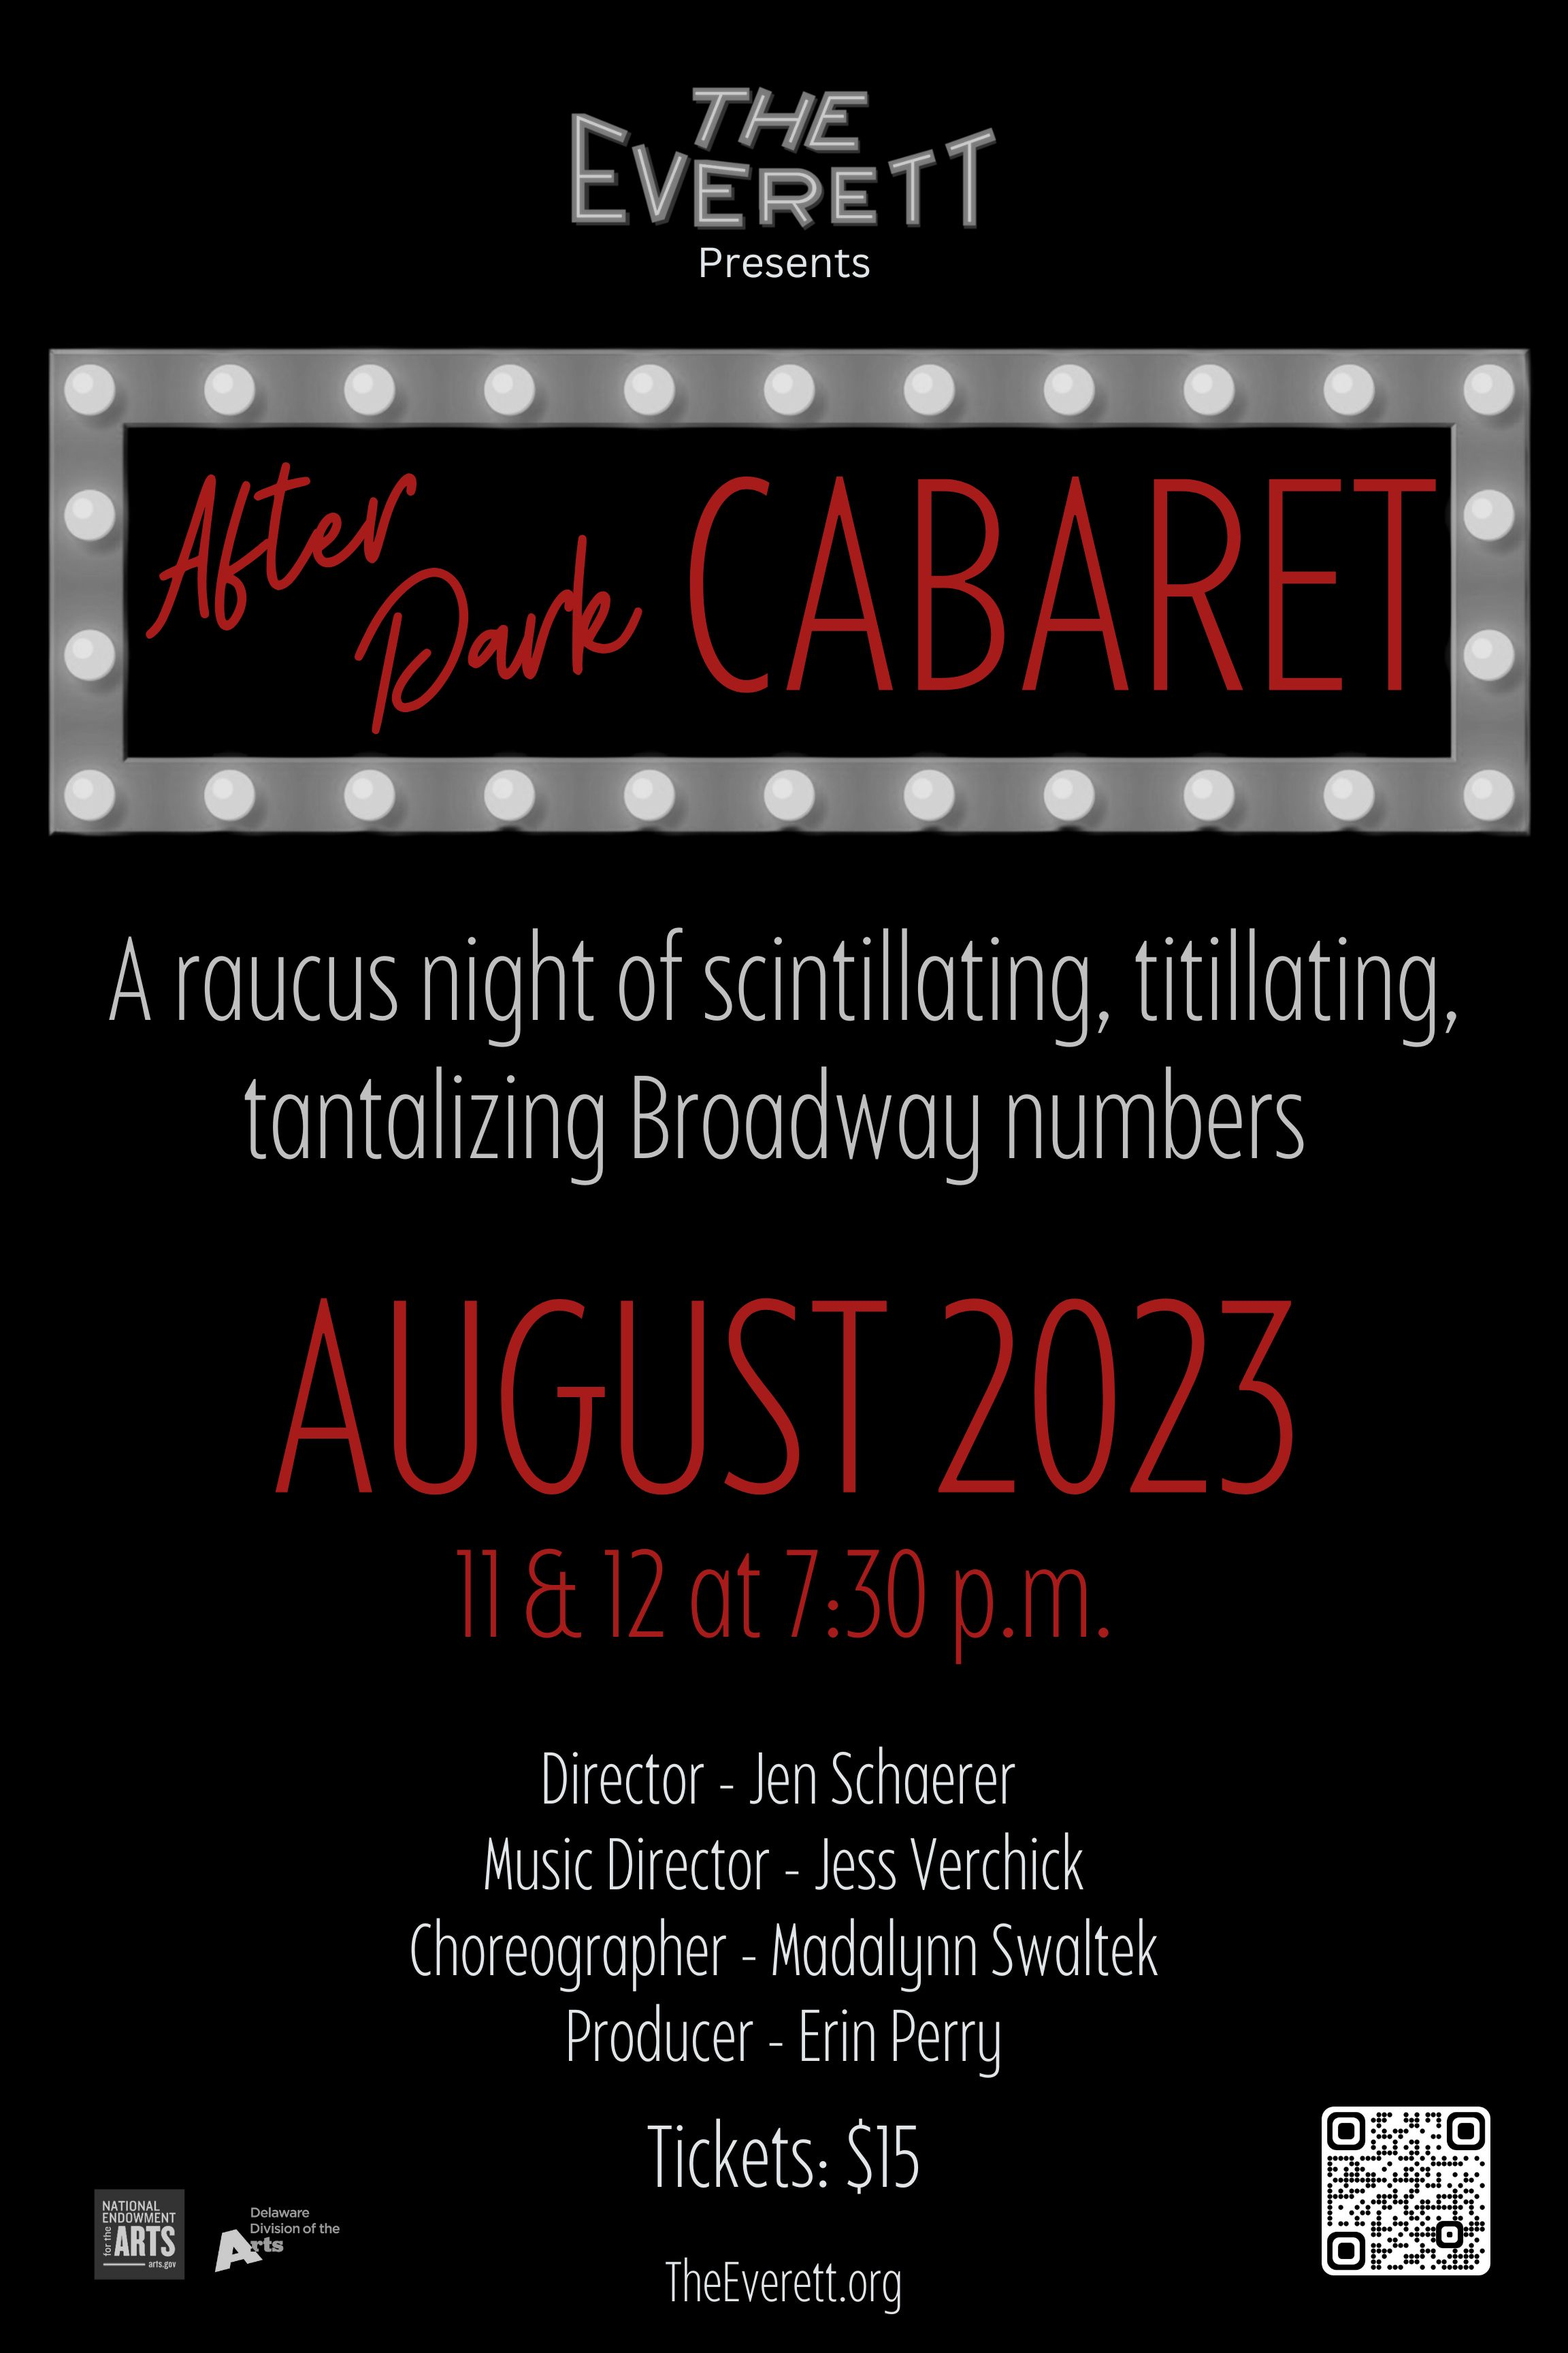
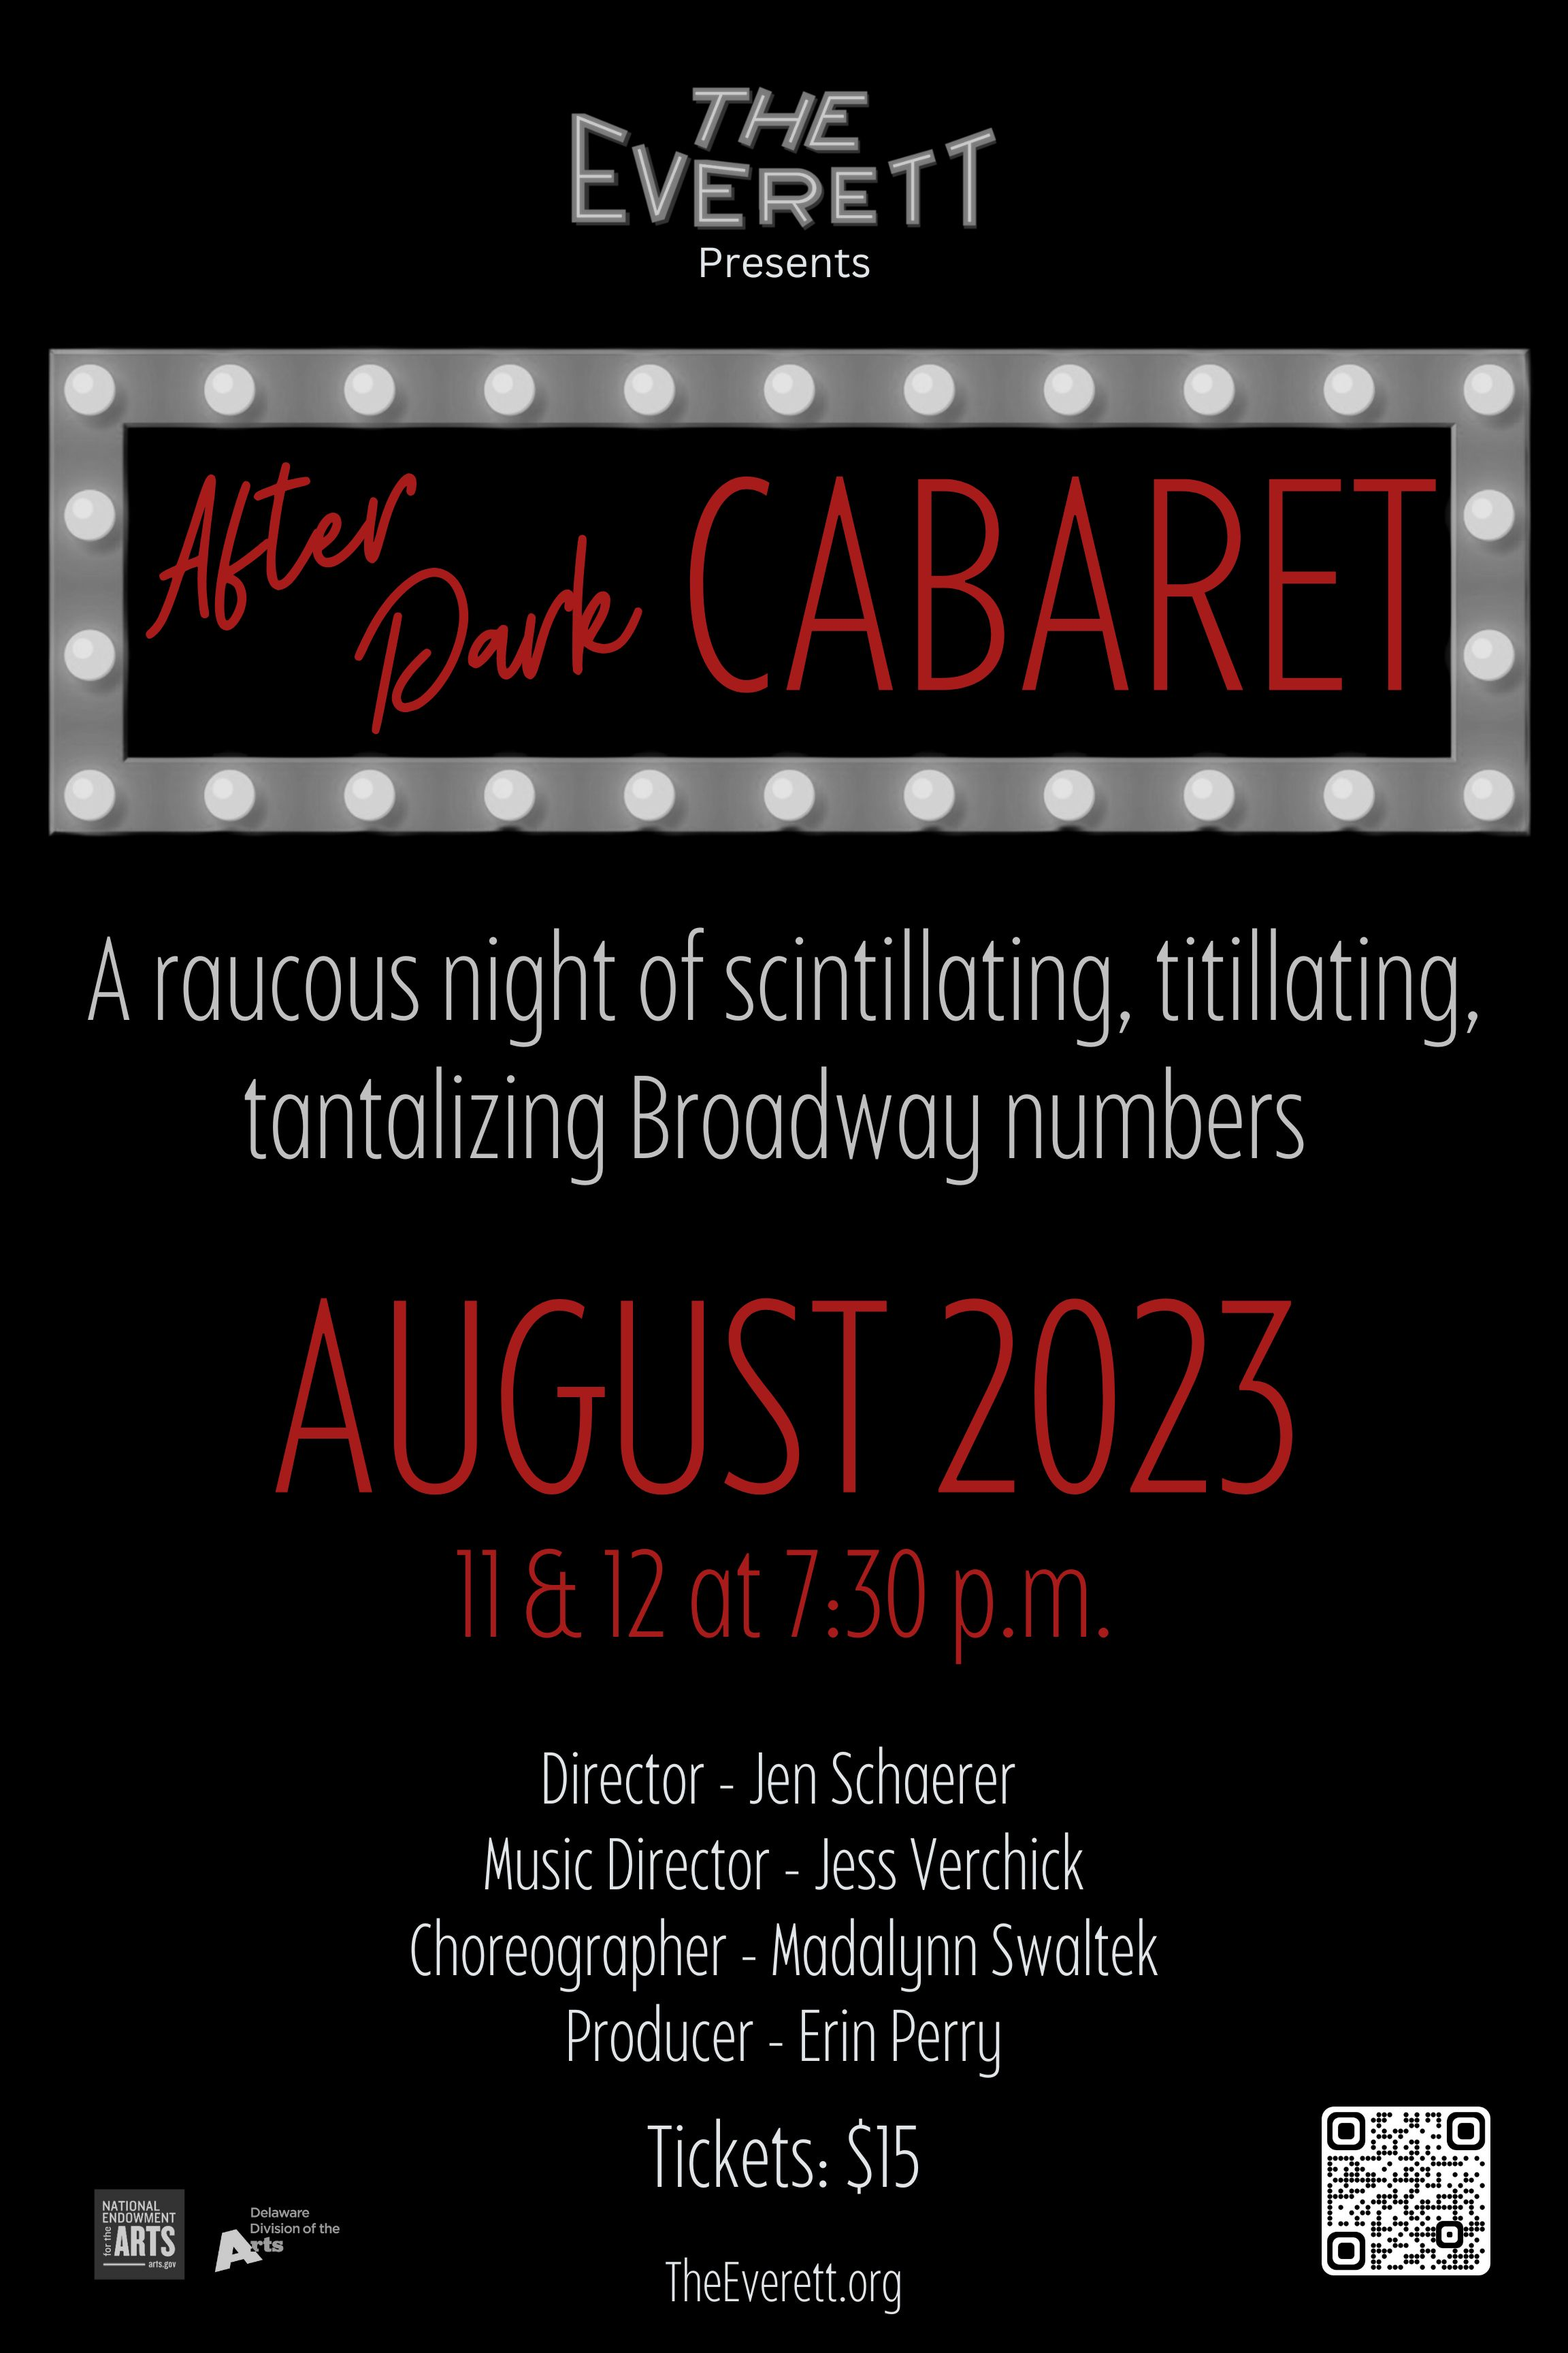
Updated poster with correct spelling from Michelle

Changed region(s): [[0.0625, 0.375, 0.9375, 0.4375]]

diff --git a/public/rehearsal-schedule.html b/public/rehearsal-schedule.html
@@ -332,7 +332,7 @@
 <td>Gibby</td>
 <td>6:30-9:30</td>
 <td>6:30-7:45 Bend &amp; Snap Music; 7:45-9:00 Sexy Music</td>
-<td>Grace, Olivia, Kendall, Tay, Evie, Moses, Madey, Nina, (Erin)</td>
+<td>Grace, Olivia, Kendall, Tay, Evie, Moses, Madey, Nina, Gia (Erin)</td>
 </tr>
 <tr>
 <td>6/24</td>
@@ -353,7 +353,7 @@
 <td>Gibby</td>
 <td>6:30-9:30</td>
 <td>6:30-8:00 Bend&amp;Snap Choreo; 8:00-9:30 Sexy Choreo</td>
-<td>Grace, Olivia, Kendall, Tay, Evie, Hannah, Lyo, Spencer, Jack, Sadie, Moses, Erin, Nina</td>
+<td>Grace, Olivia, Kendall, Tay, Evie, Hannah, Lyo, Spencer, Jack, Sadie, Moses, Erin, Nina, Gia</td>
 </tr>
 <tr>
 <td>7/6</td>
